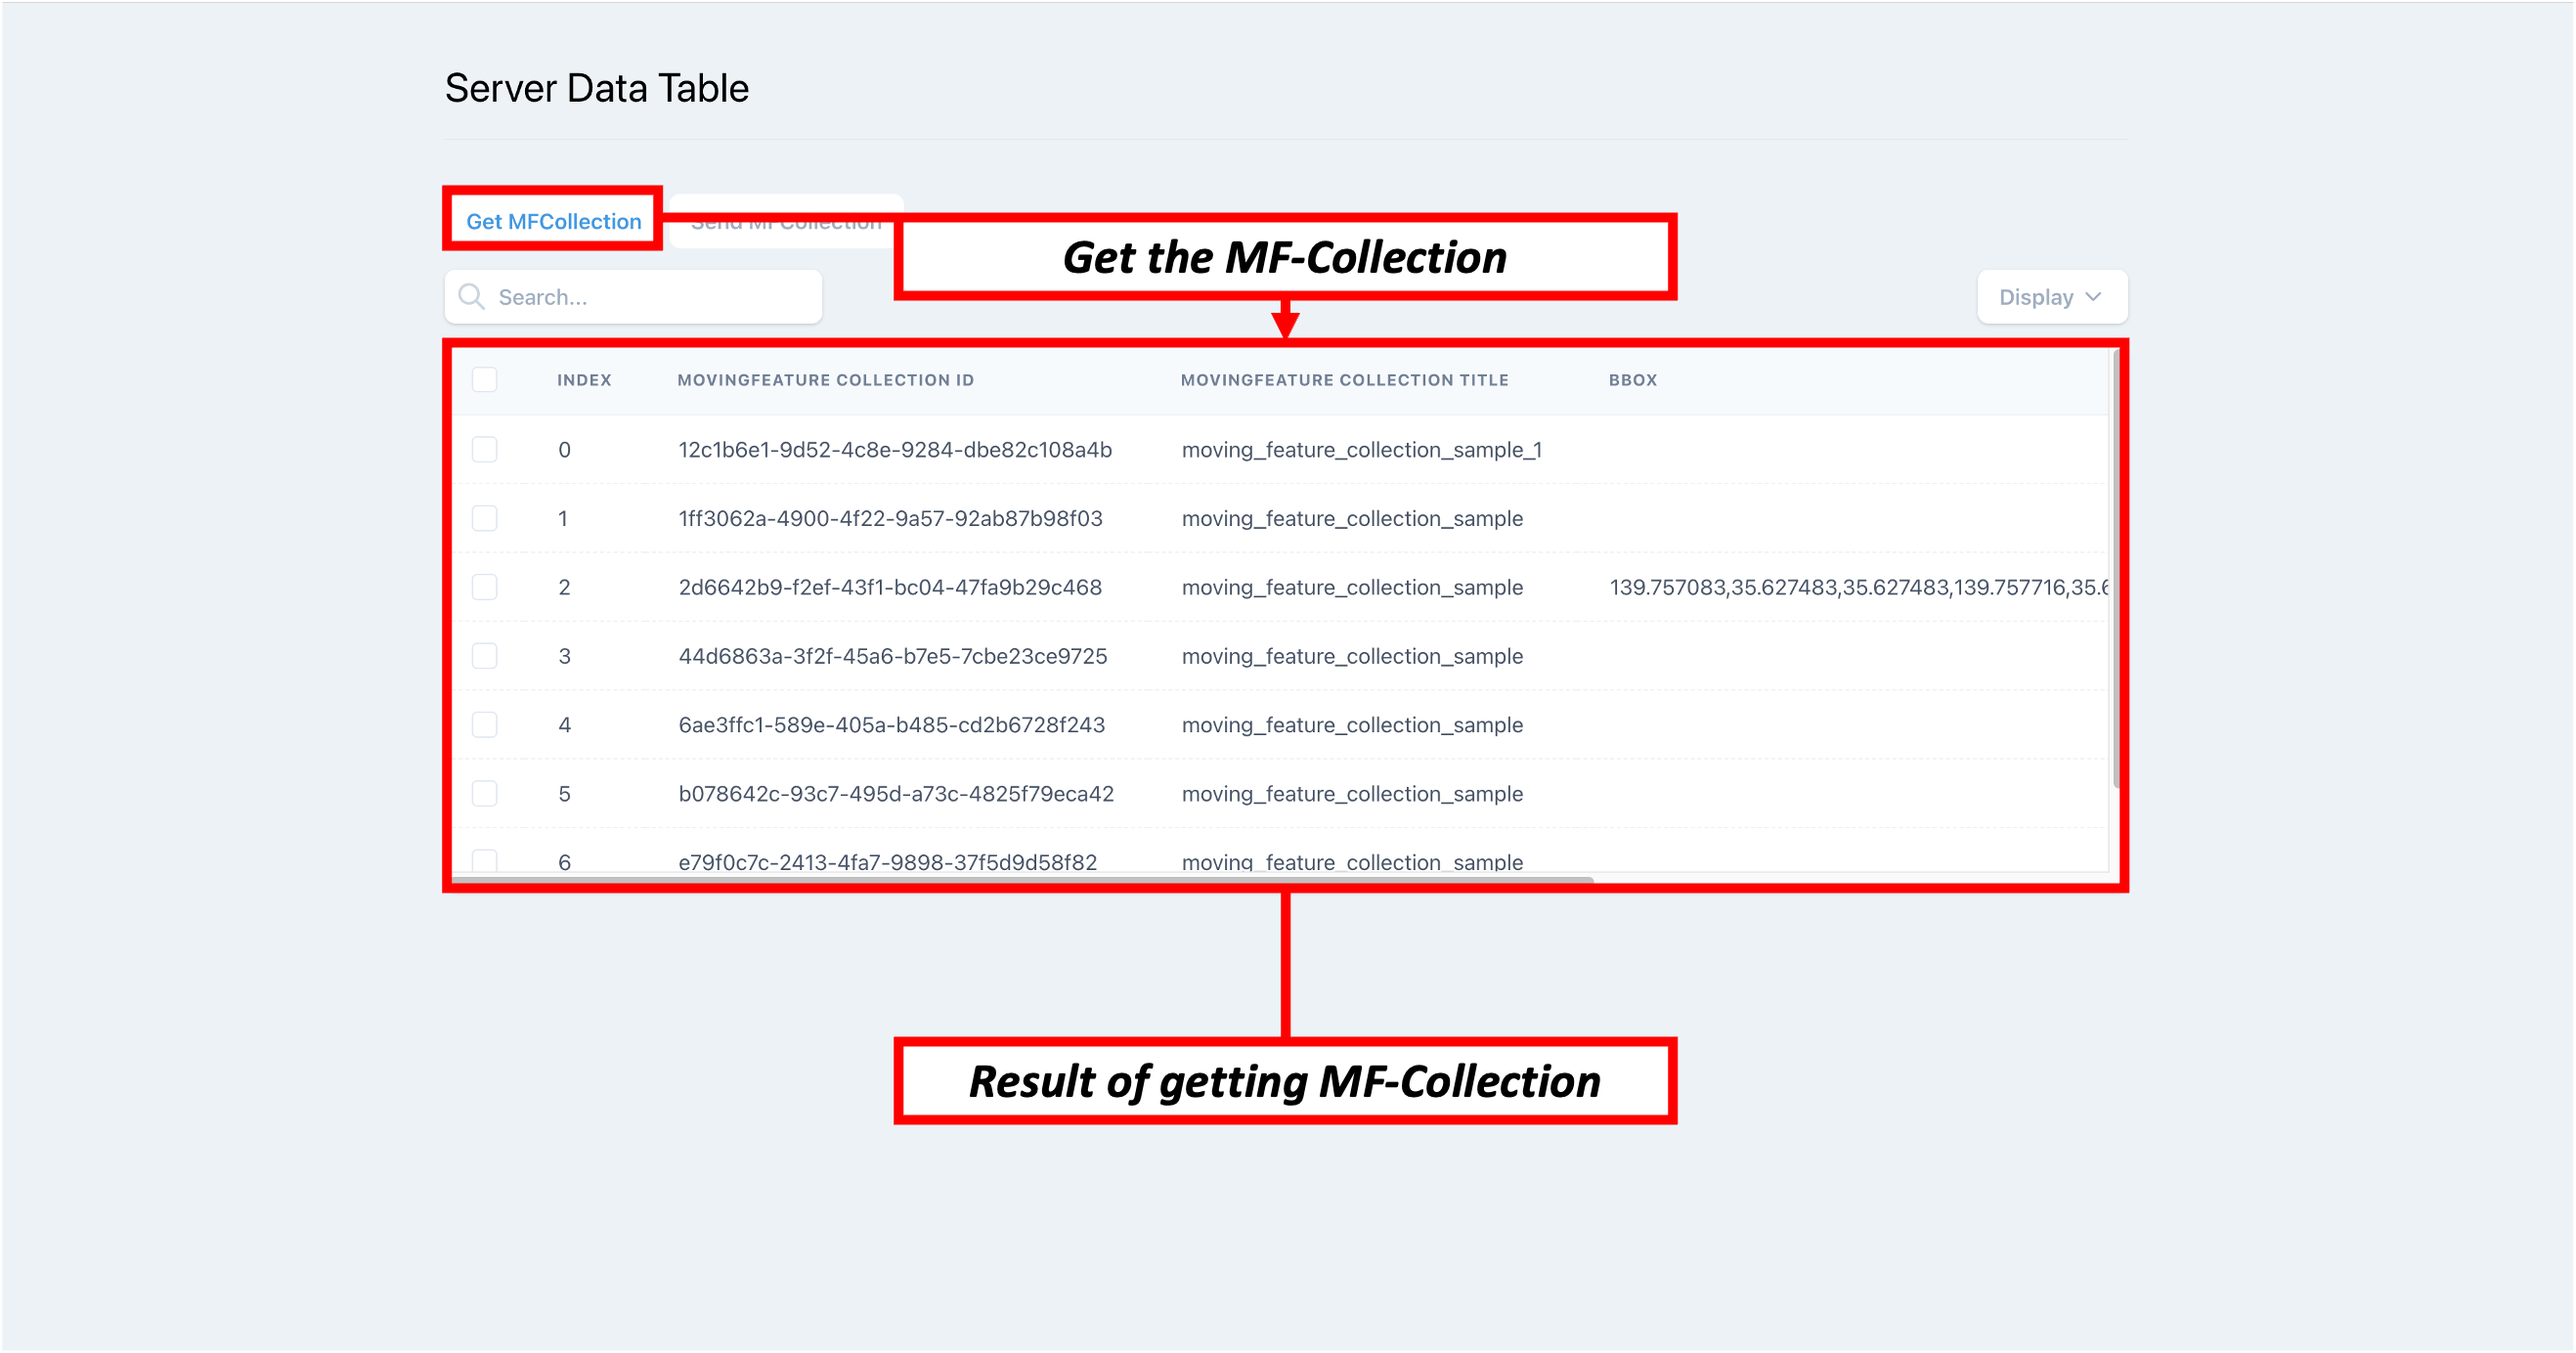
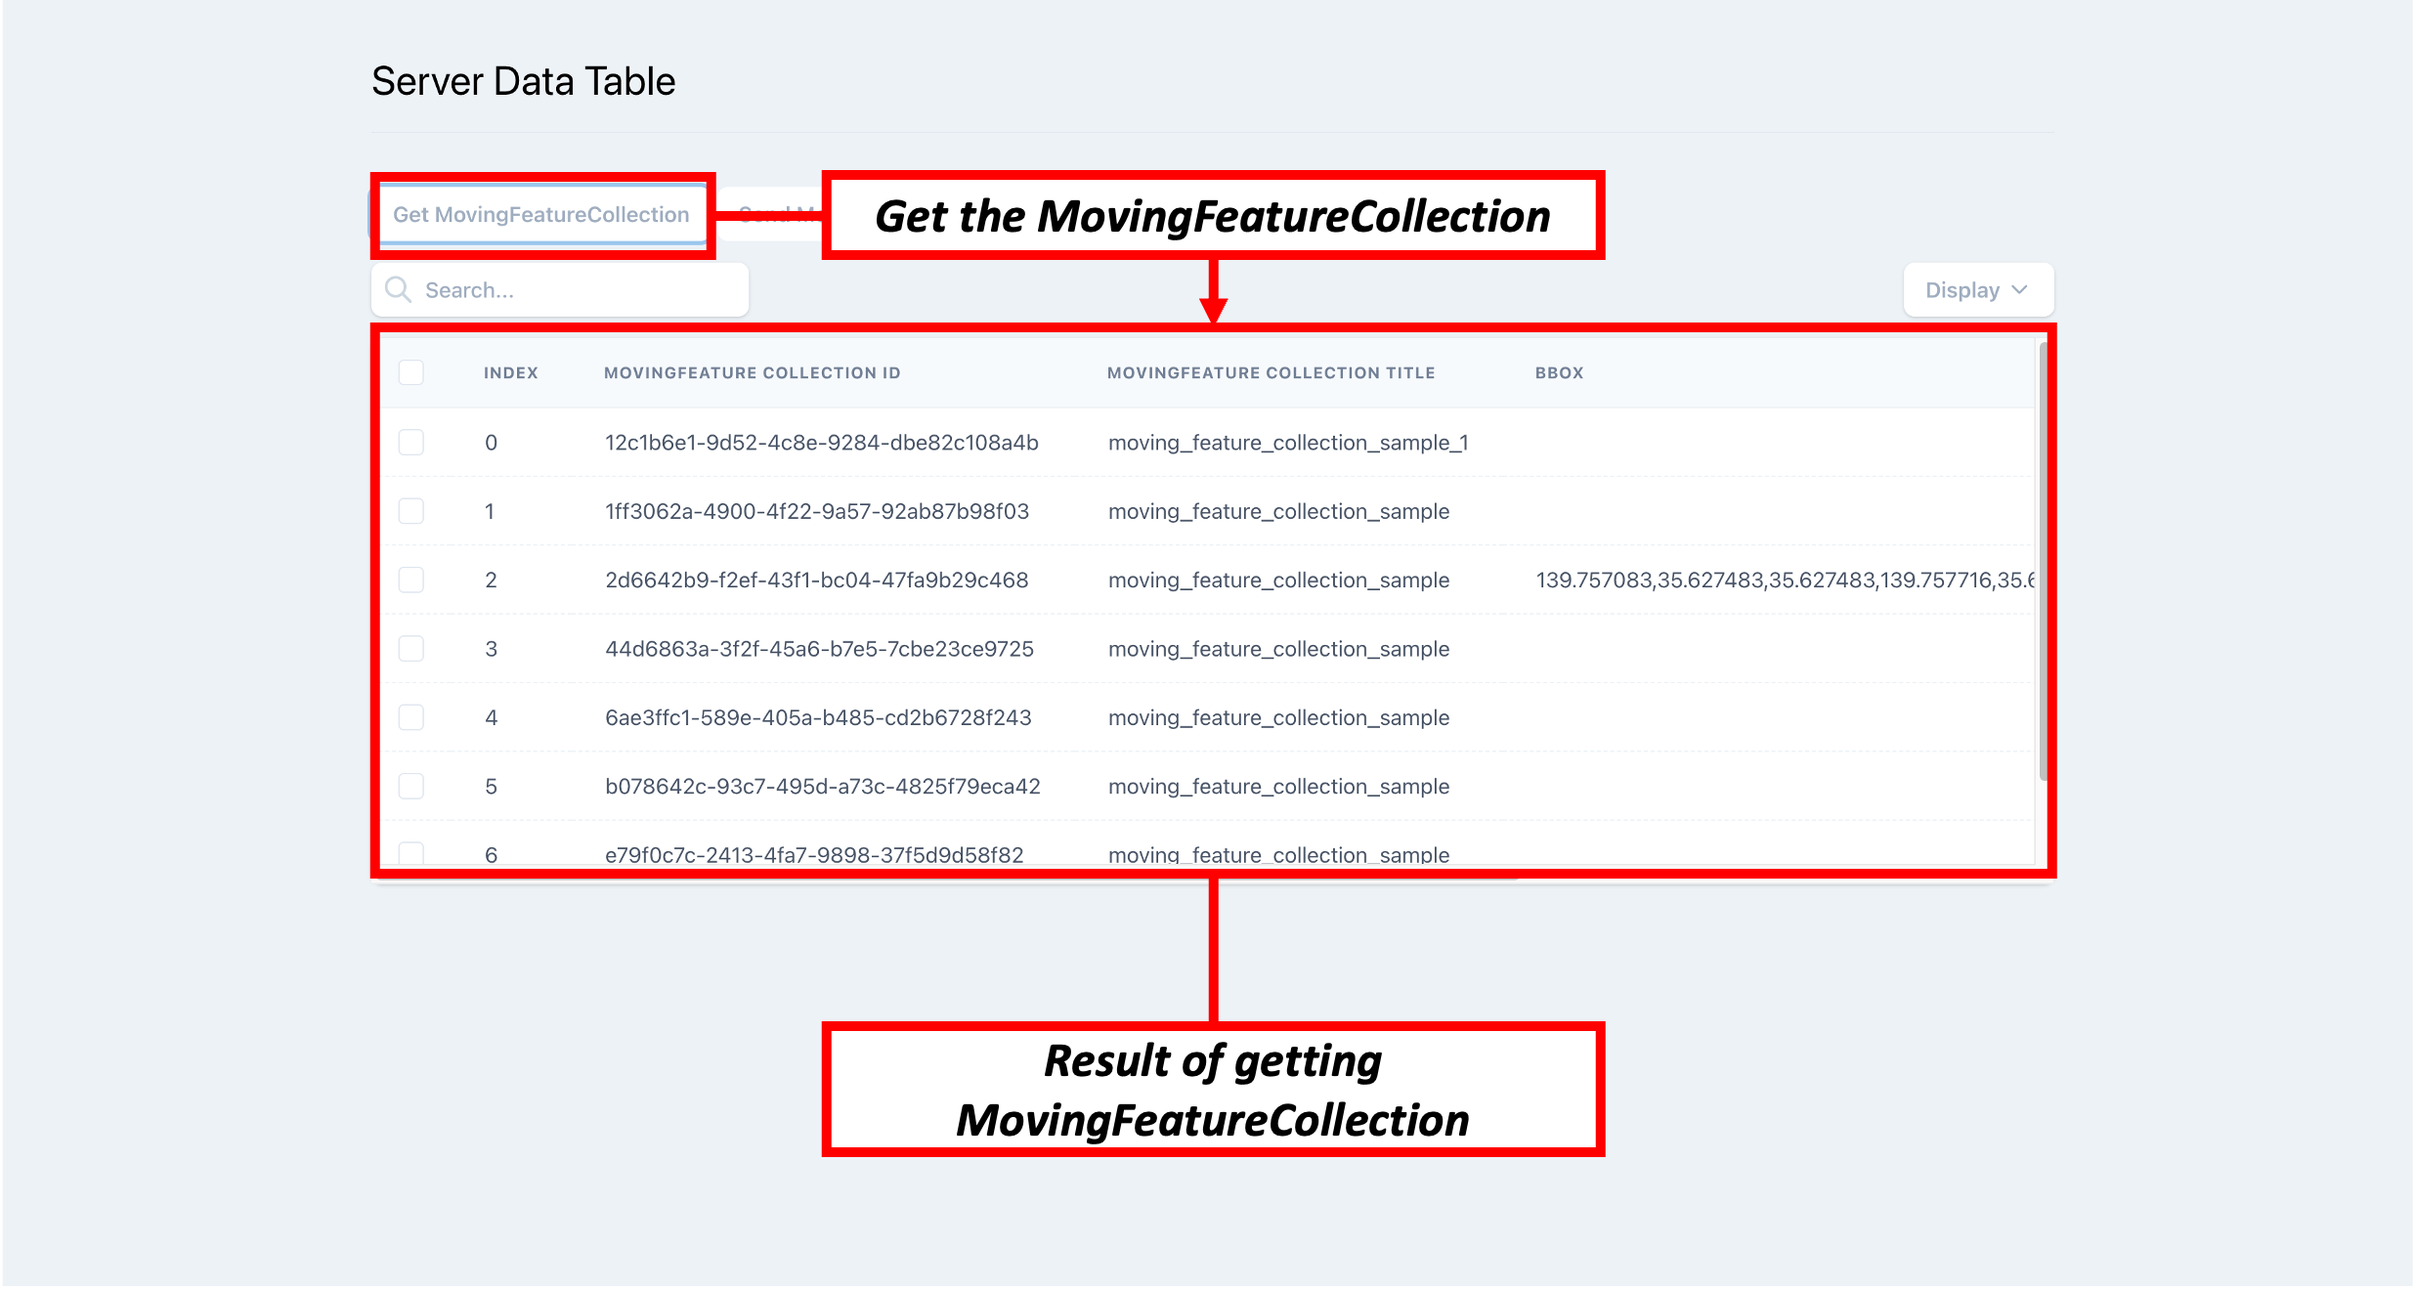
Updating the document and ui

Changed region(s): [[0.1247, 0.1242, 0.8729, 0.9008], [0.1559, 0.0311, 0.2806, 0.0932]]

diff --git a/Stinuum Web/documents/image/Wiki_README.md b/Stinuum Web/documents/image/Wiki_README.md
@@ -18,13 +18,13 @@ $ node app.js
    1.4\. [SceneModePicker](#14-SceneModePicker)  
    1.5\. [Graph](#15-Graph)  
    1.6\. [Slice](#16-Slice)  
-   1.7\. [Rader](#17-ader)  
+   1.7\. [Rader](#17-Rader)  
    1.8\. [Image](#18-Image)  
    1.9\. [Text](#19-Text)
 2. [Stinuum Server](#2-Stinuum-Server)  
    2.1\. [Server](#21-Server)  
-   2.2\. [Get the MF-Collection](#22-Get-the-MF-Collection)  
-   2.3\. [Send the MF-Collection data to main page](#23-Send-the-MF-Collection-data-to-main-page)  
+   2.2\. [Get the MovingFeatureCollection](#22-Get-the-MovingFeatureCollection)  
+   2.3\. [Send the MovingFeatureCollection data to main page](#23-Send-the-MovingFeatureCollection-data-to-main-page)  
    2.4\. [Get MovingFeature list](#24-Get-MovingFeature-list)  
    2.5\. [Get additional MovingFeatures](#25-Get-additional-MovingFeatures)
 ***
@@ -182,30 +182,28 @@ $ node app.js
 
 ***
 
-## 1.10. Server
 
-- The Server function provides a button for getting the MovingFeatureCollection (MovingFeature Collection) data list from MF Server.
 
-    + If clicking the _**"SERVER"**_ button, the browser moves to the data selection page (localhost:8080/dataSelect), where users can select MovingFeature Collection data from the MF server.
-    + If users didn't log in before, the browser moves to log in page (localhost:8080/).
+***
+
+## 2. Stinuum with OGC API - MovingFeatures Server(MF-API Server)
+
+- If users can connect to the MF-Server, Stinuum can get to MF data from MF-Server by [MF-API](https://opengeospatial.github.io/ogcapi-movingfeatures/openapi/openapi-movingfeatures-1.html)
+- The Server function provides a button for getting the MovingFeatureCollection (MovingFeatureCollection) data list from MF Server.
+
+    + If clicking the _**"SERVER"**_ button, the browser moves to the data selection page (localhost:8080/dataSelect), where users can select MovingFeatureCollection data from the MF server.
 
 ![Server](https://github.com/aistairc/mf-cesium/blob/mf-cesium_api/Stinuum%20Web/documents/image/Server-1.png)
 
 ***
 
-## 2. Stinuum Server
+## 2.1. Get the MovingFeatureCollection
 
-- If users can connect to the MF-Server, Stinuum can get to MF data from MF-Server by [MF-API](https://github.com/aistairc/mf-api)
-
-***
-
-## 2.1. Get the MF-Collection
-
-- In the data selection page (localhost:8080/dataSelect), users can communicate with the server to get the MovingFeature-Collection
+- In the data selection page (localhost:8080/dataSelect), users can communicate with the server to get the MovingFeatureCollection
 
     + Click the _**"GET MovingFeatureCollection"**_ button.
 
-        + Receive the whole data of MovingFeature Collection from MF-Server
+        + Receive the whole data of MovingFeatureCollection from MF-Server
 
     + If it succeeds, the result is added to the bottom table.
 
@@ -213,19 +211,10 @@ $ node app.js
 
 ***
 
-## 2.2. Send the MF-Collection data to the main page
+## 2.2. Send the MovingFeatureCollection data to the main page
 
-- Select one or more columns that users need to get the MovingFeature data and then enter the number of MovingFeatures.
-
-    + The order of the MovingFeature list is ascending order depends on the _**"Number"**_ value.
-
-- The sampling count shall be **5**.
-
-    + The sampling count means that the number of MovingFeature getting from a selected MovingFeature-Collection.
-    + If the count of MovingFeature is over then the sampling count, it gets from the front of the MovingFeature list.
-
-- Click the _**"Send Data"**_ button to sends the selected column values to the main page (localhost:8080/main)
-
+- Select one or more rows that users need to get the MovingFeature data.
+- And then click the _**"Send MovingFeatureCollection"**_ button to sends the selected column values to the main page (localhost:8080/main)
 
 ![server-3](https://github.com/aistairc/mf-cesium/blob/mf-cesium_api/Stinuum%20Web/documents/image/Server-3.png)
 
@@ -237,7 +226,7 @@ $ node app.js
 
     + Select one or more the titles and then click the _**"SHOW"**_ button to get the MovingFeature data list.
 
-- Add the MovingFeatureCollection data to the Collection Layer (detail describe in 1.2 Layers).
+- Add the MovingFeatureCollection data to the Collection Layer (detail describe in [1.2 Layers](#12-Layers)).
 
 - When users click on an item in the Collection Layer, it adds a list of MovingFeatures in the Feature Layer.
 
@@ -253,6 +242,6 @@ $ node app.js
 
 ## 2.4. Get additional MovingFeatures
 
-- When the _**"ADD"**_ button is clicked, an additional 5 MovingFeatures data are added to the corresponding layer (via the process described in [Get MovingFeature list](#23-Get-MovingFeature-list)).
+- When the _**"ADD"**_ button is clicked, it will fetch the next five pieces of MovingFeature data and add them to the corresponding layer (via the process described in [Get MovingFeature list](#23-Get-MovingFeature-list)).
 
   ![server-5](https://github.com/aistairc/mf-cesium/blob/mf-cesium_api/Stinuum%20Web/documents/image/Server-5.png)
